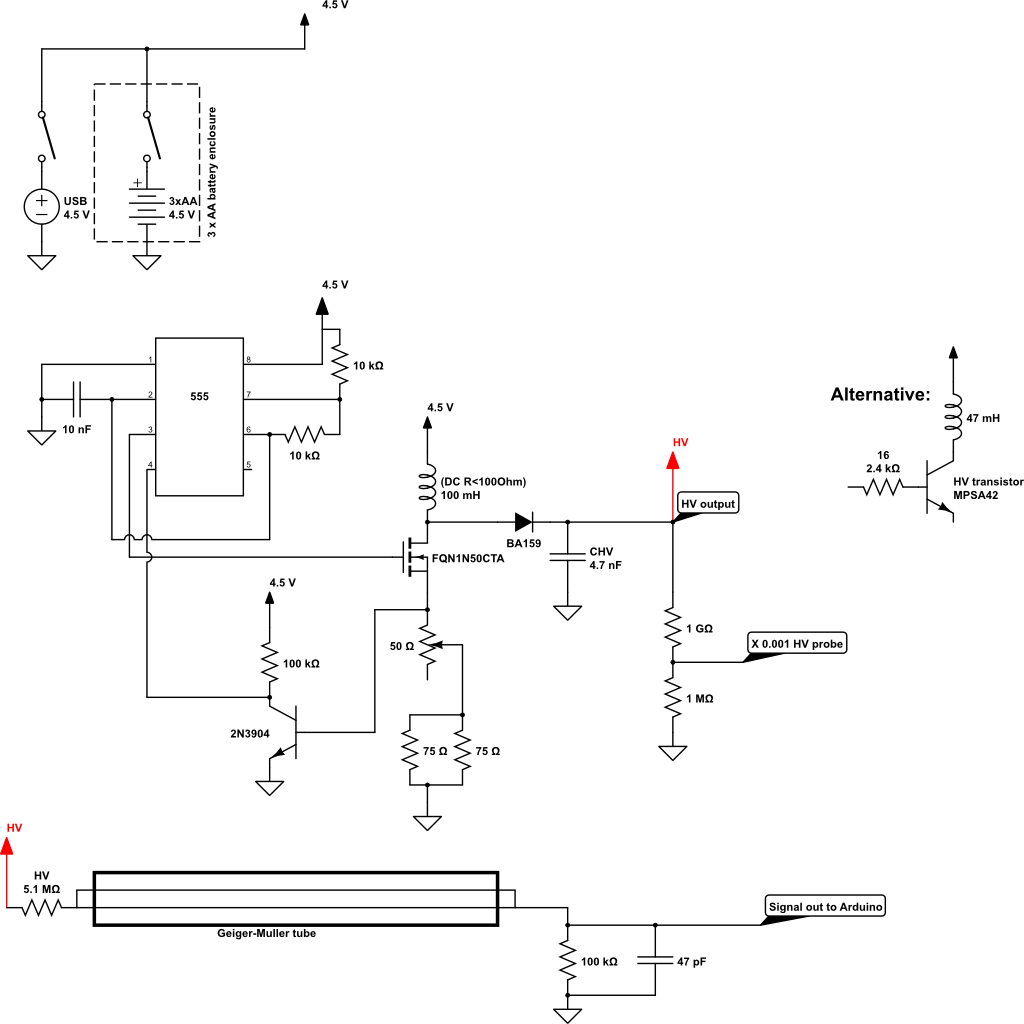
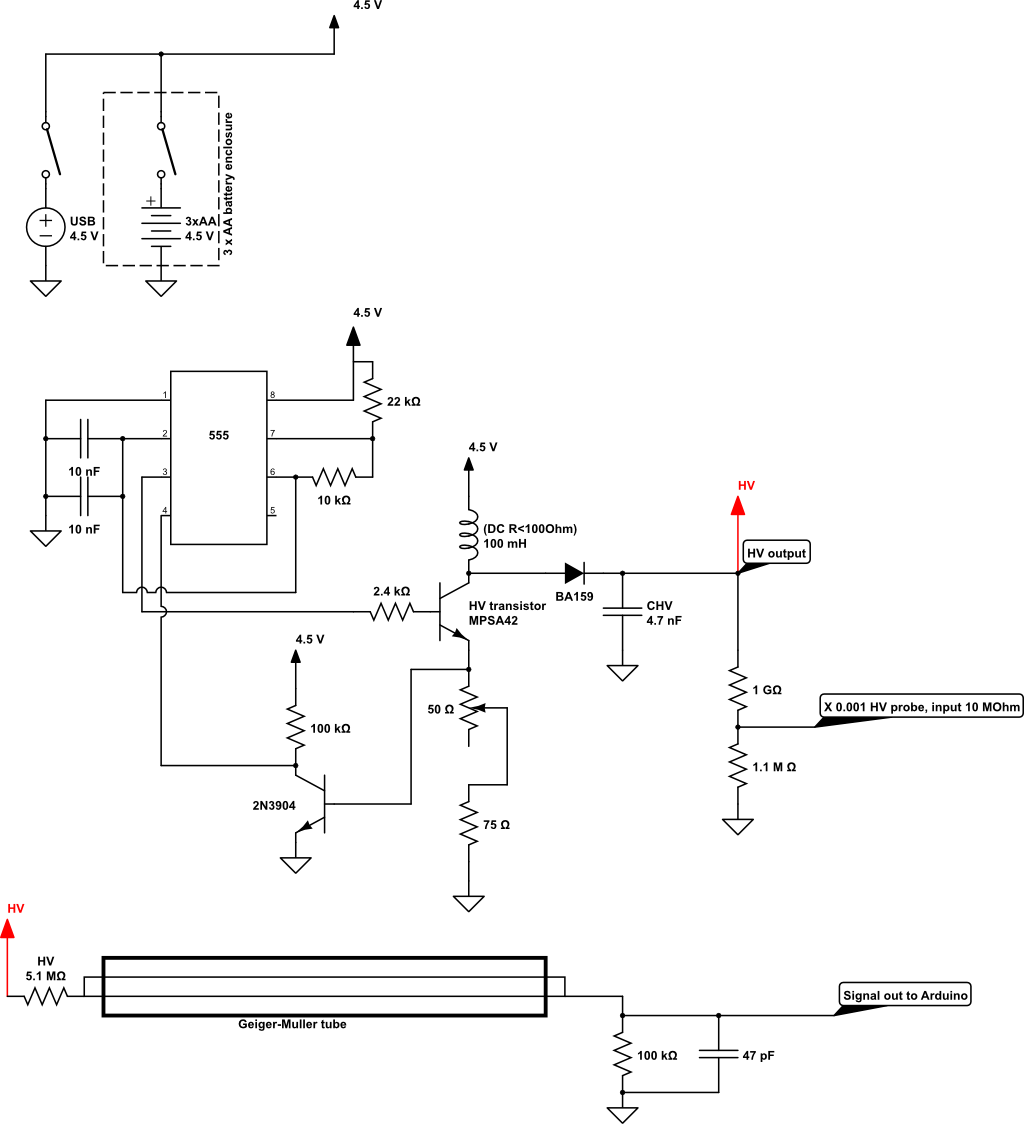
Updated the README with finalized design description.  Updated some of the photos.

diff --git a/README.md b/README.md
@@ -1,6 +1,8 @@
 # Geiger_lanph: a simple Geiger counter design
 
-Author:  Areg Danagoulian
+Author:  [Areg Danagoulian](areg.mit.edu)
+
+License and copyright:  see LICENSE and COPYRIGHT
 
 This repository provides documentation for a very simple design of a Geiger Counter.  It is based on a synthesis of various open source Geiger counter
 designs, and is optimized for simplicity rather than ergonomics. 
@@ -17,7 +19,13 @@ While there are many designs for Geiger counters out there, this design is based
   + the basics of analog design
   + the basics of Arduino-based digital and software design
 
-The design can be split into three main parts: HV module; Radiation sensor; DAQ and Readout.
+
+The diagram representing the analog part of the design can be seen below.
+
+![](figures/geiger_lanph.png)
+
+
+The design can be split into three main parts: HV module; Radiation sensor; DAQ and Readout.  For a detailed description see the directory *Instructions*.
 
 **HV module**
 
@@ -27,26 +35,28 @@ to a capacitor through a rectifier diode.  To achieve the HV the inductor-ground
 which takes the switching input from the 555 into its base.  This is the basic principle of how spark plugs on an internal combustion 
 engine work. 
 
+
+***Explanation of the HV module***
+
+The key part of the Geiger design is the boost converter which is at the core of the HV module.  It's a standard boost converter working in Discontinous Conduction Mode (DCM). This is the mode where the current in the inductor is highly discontinuous, which can be problematic in case of a large current draw at the output.  However the current draw in this design is about O(300 nanoAmps), thus DCM works very well. 
+
+The *idealized* voltage equation for this mode can be written (see [here](https://youtu.be/6RuPplUim4E) for a full derivation) as 
+
+Vo = (Vi / 2)(1+ sqrt(1 + 2 D^2 TR/L))
+
+where Vo and Vi are the output and input voltages, respectively, D is the duty factor, T is the period of the switching device, R is the load on Vo, and L is the inductance.  For the values that are typical or similar to our design this can be simplified to
+
+Vo = (D Vi / 2) sqrt(2TR/L)
+
+What do we see?  As you increase the period T the inductor has more time to charge, thus producing a stronger voltage when the transisor shuts it off (via Ldi/dt).  It may be tempting to think that one can increase T indefinitely.  This is of course not true, because the equation above assumes *linearity* :  for T~L/R you saturate the inductor and have a non-linear exponential rise in current.  The equation above is only for T<<L/R, where L/R is the time constant of the charge-up of the inductor (fun problem to work on:  derive the equation above without relying on T<<L/R).
+
+The HV is using the simplest form of a DC-DC boost converter which simply takes a switching input to the HV transistor as a way of stepping up 4.5 V to 300+ V.  The standard design however has a significant weakness:  if the input voltage sags so will the output voltage, as can be seen by the equation above.  The design we use instead has a feedback, which allows to reset the 555 and thus limit D:  as the voltage sags the point at which this happens gets extended, thus causing D to increase and (hopefully) counter-act the drop in Vi.  That's the idea anyway.  For this to work the design needs to be optimized to achieve the highest possible HV value, with the trim resistor then used to _reduce_ it.  This way the voltage will be limitted by the feedback, and the above described condition will be met.
+
 **Radiation Sensor**
 
 The HV is then used to bias the Geiger-Muller tube, which in our case is the classic Soviet SBM-20 ($20 on ebay) via a 5.1 MOhm input resistor.
 The negative terminal of the tube is sent to ground via a 5.1 kOhm resistor.  The readout of the signal is directly from the negative terminal.  
 
-The diagram representing the analog part of the design can be seen below.
-
-![](figures/geiger_lanph.png)
-
-**Explanation of the HV module**
-
-The key part of the Geiger design is the boost converter which is at the core of the HV module.  It's a standard boost converter working in Discontinous Conduction Mode (DCM). This is the mode where the current in the inductor is highly discontinuous, which can be problematic in case of a large current draw at the output.  However the current draw in this design is about O(300 nanoAmps), thus DCM works very well. 
-
-The voltage equation for this mode can be written (see [here](https://youtu.be/6RuPplUim4E) for a full derivation) as 
-
-Vo = (Vi / 2)(1+ sqrt(1 + 2 D^2 TR/L))
-
-where D is the duty factor, T is the period of the switching device, R is the load on Vo, and L is the inductance.
-
-The HV is using the simplest form of a DC-DC boost converter which simply takes a switching intput to the MOSFET as a way of stepping up 4.5 V to 300+ V.  The standard design however has a significant weakness:  if the input voltage sags so will the output voltage, as can be seen by the equation above.  The design we use instead has a feedback, which allows to reset the 555 and thus limit D:  as the voltage sags the point at which this happens gets extended, thus causing D to increase and (hopefully) counter-act drop in Vi.  That's the idea anyway.  For this to work the design needs to be optimized to achieve the highest possible HV value, with the trim resistor then used to _reduce_ it.  This way the voltage will be limitted by the feedback, and the above described condition will be met.
 
 **Data Acquisition (DAQ)**
 
@@ -82,11 +92,22 @@ The code reads and prints to file the timestamp of every event in microseconds, 
 
 **Pictures, pictures, pictures...**
 
-![](figures/open.jpg)
+The detector in HV measurement mode (first 10 sec after startup):
+![](figures/closed_hv_mode.jpg)
+The detector measuring radiation from a piece of uranium ore:
 ![](figures/closed.jpg)
+Opened:
+![](figures/open.jpg)
+
+**Attribution**
+
+It is always important to give credit to all the good men and women whose ideas we used in our design.
+
++ HV design.  We use the simplified form of the design used [by these authors](https://github.com/SensorsIot/Geiger-Counter-RadiationD-v1.1-CAJOE-). In our design we skipped the Cockcroft-Walton multiplier by using a larger inductor.
++ Geiger tube's analog readout:  a modification of the [MIT design](https://ocw.mit.edu/courses/22-s902-do-it-yourself-diy-geiger-counters-january-iap-2015/), authored by Mark Chilenski and Matthew d'Assaro. 
 
 **To Do**
 
 Future goals:
 
-+ Change the Arduino code to include readout of the HV voltage as well as the battery voltage.  Include a warning if below a threshold
++ Add a functionality for a button to switch to HV monitoring mode, where Arduino displays the HV in real time, allowing for tuning of the HV.
